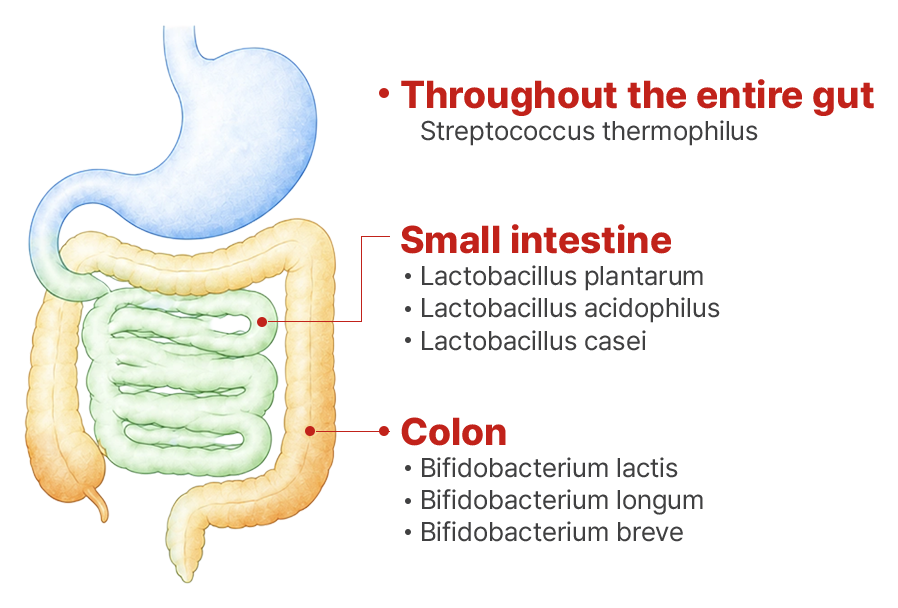
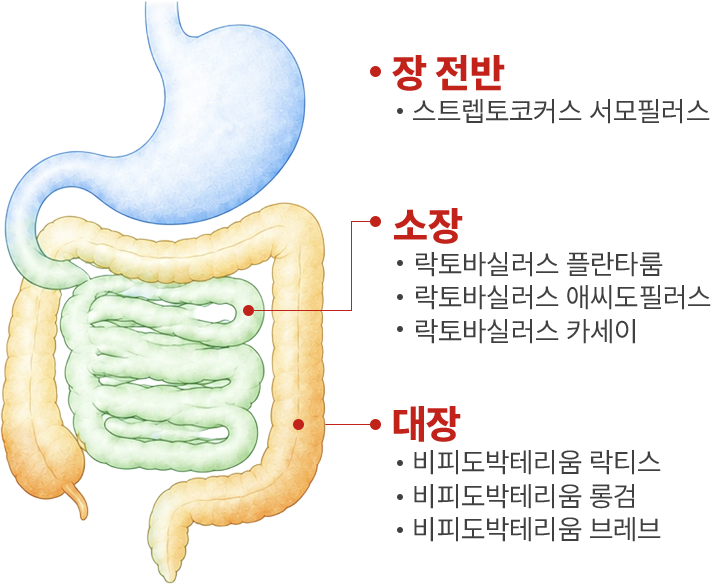
WENZ-1553
KO | WP Site

Update alfa ZETA PROBIOTICS localization, font scope, navigation, and production assets.

15 files involved.

Changed region(s): [[0.0, 0.0, 1.0, 1.0]]

diff --git a/plugins/enzacta_graphics/content/kr/ko/short_codes/ko_alfa_zeta_probiotics/assets/css/style.css b/plugins/enzacta_graphics/content/kr/ko/short_codes/ko_alfa_zeta_probiotics/assets/css/style.css
@@ -22,8 +22,11 @@
 	--pretendard: "pretendard", sans-serif;
 }
 
-#product-page,
-#product-page * {
+#product-page {
+	font-family: var(--pretendard);
+}
+
+#product-page :is(div, p, span, a, h1, h2, h3, h4, li, td) {
 	font-family: var(--pretendard) !important;
 }
 
@@ -150,42 +153,6 @@ body {
 .hero__nav .hero__nav-btn {
 	margin-right: 0 !important;
 	margin-left: 0 !important;
-}
-
-.hero__nav-btn.hero__nav-btn--buy {
-	display: inline-flex;
-	align-items: center;
-	justify-content: center;
-	min-width: 140px;
-	padding: 14px 34px;
-	border: 0;
-	border-radius: 999px;
-	background-color: #cc6666;
-	box-shadow: 0 8px 16px rgba(0, 0, 0, 0.24);
-	color: #ffffff;
-	font-family: var(--pretendard);
-	font-size: 14px;
-	font-weight: 700;
-	line-height: 1;
-	text-align: center;
-	text-decoration: none;
-	text-shadow: none;
-	white-space: nowrap;
-	box-sizing: border-box;
-}
-
-.hero__nav-btn.hero__nav-btn--buy:hover {
-	color: var(--text-gray);
-	text-decoration: none;
-	text-shadow: none;
-}
-
-.hero__nav-btn.hero__nav-btn--buy:focus-visible {
-	color: #ffffff;
-	text-decoration: none;
-	text-shadow: none;
-	outline: 2px solid var(--white);
-	outline-offset: 3px;
 }
 
 .hero__nav-btn--desktop {
@@ -709,7 +676,7 @@ span.icons__title-emphasis {
 .health .health__digestive-composition {
 	display: block;
 	width: 100%;
-	max-width: 520px;
+	max-width: 400px;
 	height: auto;
 	margin: 0 auto;
 	object-fit: contain;
@@ -2436,9 +2403,6 @@ iframe.video__container--iframe {
 	}
 	.hero__nav-btn {
 		text-shadow: 0px 0px 6px var(--white);
-	}
-	.hero__nav .hero__nav-btn--buy {
-		display: inline-flex;
 	}
 	.hero__category {
 		margin-bottom: 10px !important;

diff --git a/plugins/enzacta_graphics/content/kr/en/short_codes/ko_alfa_zeta_probiotics/assets/css/style.css b/plugins/enzacta_graphics/content/kr/en/short_codes/ko_alfa_zeta_probiotics/assets/css/style.css
@@ -22,8 +22,11 @@
 	--pretendard: "pretendard", sans-serif;
 }
 
-#product-page,
-#product-page * {
+#product-page {
+	font-family: var(--pretendard);
+}
+
+#product-page :is(div, p, span, a, h1, h2, h3, h4, li, td) {
 	font-family: var(--pretendard) !important;
 }
 
@@ -150,42 +153,6 @@ body {
 .hero__nav .hero__nav-btn {
 	margin-right: 0 !important;
 	margin-left: 0 !important;
-}
-
-.hero__nav-btn.hero__nav-btn--buy {
-	display: inline-flex;
-	align-items: center;
-	justify-content: center;
-	min-width: 140px;
-	padding: 14px 34px;
-	border: 0;
-	border-radius: 999px;
-	background-color: #cc6666;
-	box-shadow: 0 8px 16px rgba(0, 0, 0, 0.24);
-	color: #ffffff;
-	font-family: var(--pretendard);
-	font-size: 14px;
-	font-weight: 700;
-	line-height: 1;
-	text-align: center;
-	text-decoration: none;
-	text-shadow: none;
-	white-space: nowrap;
-	box-sizing: border-box;
-}
-
-.hero__nav-btn.hero__nav-btn--buy:hover {
-	color: var(--text-gray);
-	text-decoration: none;
-	text-shadow: none;
-}
-
-.hero__nav-btn.hero__nav-btn--buy:focus-visible {
-	color: #ffffff;
-	text-decoration: none;
-	text-shadow: none;
-	outline: 2px solid var(--white);
-	outline-offset: 3px;
 }
 
 .hero__nav-btn--desktop {
@@ -2436,9 +2403,6 @@ iframe.video__container--iframe {
 	}
 	.hero__nav-btn {
 		text-shadow: 0px 0px 6px var(--white);
-	}
-	.hero__nav .hero__nav-btn--buy {
-		display: inline-flex;
 	}
 	.hero__category {
 		margin-bottom: 10px !important;

diff --git a/plugins/enzacta_graphics/content/kr/ko/short_codes/ko_alfa_zeta_probiotics/index.php b/plugins/enzacta_graphics/content/kr/ko/short_codes/ko_alfa_zeta_probiotics/index.php
@@ -22,7 +22,7 @@
 
 ?>
 
-<body id="product-page">
+<div id="product-page" class="zeta-probiotics">
 
 	<!-- ========== HERO ========== -->
 
@@ -52,7 +52,6 @@
 					<div class="hero__nav">
 						<p class="hero__nav-btn hero__nav-btn--desktop hero__nav-btn--info">TESTIMONIES ></p>
 						<p class="hero__nav-btn hero__nav-btn--desktop hero__nav-btn--faq">FAQ ></p>
-						<a class="hero__nav-btn hero__nav-btn--desktop hero__nav-btn--buy" href="">BUY NOW</a>
 					</div>
 					<div class="hero__text">
 						<p class="hero__category">활력</p>
@@ -65,10 +64,10 @@
 						</p>
 						<div class="flexme">
 							<div class="hero__cta hero__cta--description">
-								DESCRIPTION
+								상세정보
 							</div>
 							<div class="hero__cta hero__cta--facts">
-								SUPPLEMENT FACTS
+								영양·기능정보
 							</div>
 						</div>
 					</div>
@@ -154,7 +153,7 @@
 			<div class="info__cards--box">
 				<div class="info__card--red">
 					<h3 class="info__card--title">
-						<span class="info__card--number">7</span>
+						<span class="info__card--number">7종</span>
 						<span class="info__card--label">프로바이오틱스</span>
 					</h3>
 					<div class="info--separator"></div>
@@ -166,7 +165,7 @@
 
 				<div class="info__card--green">
 					<h3 class="info__card--title">
-						<span class="info__card--number">5</span>
+						<span class="info__card--number">5종</span>
 						<span class="info__card--label">프리바이오틱스</span>
 					</h3>
 					<div class="info--separator"></div>
@@ -176,7 +175,7 @@
 				</div>
 				<div class="info__card--orange">
 					<h3 class="info__card--title">
-						<span class="info__card--number">1</span>
+						<span class="info__card--number">1종</span>
 						<span class="info__card--label">포스트바이오틱스</span>
 					</h3>
 					<div class="info--separator"></div>
@@ -422,28 +421,28 @@
 						<div class="instructions__separator"></div>
 						<div class="instructions__footer--icons">
 							<div class="instructions__footer--icon">
-								<img class="instructions__footer--icon-img" src="<?= plugins_url('assets/img/health/health_no_silicon_dioxide_badge.png', __FILE__) ?>" alt="이산화규소 무첨가">
+								<img class="instructions__footer--icon-img" src="<?= plugins_url('assets/img/health/health_no_silicon_dioxide_badge_v2.jpg', __FILE__) ?>" alt="이산화규소 무첨가">
 								<p class="instructions__footer--icon-text">
 									<span class="instructions__footer--icon-prefix">무첨가</span>
 									<span class="instructions__footer--icon-label">이산화규소</span>
 								</p>
 							</div>
 							<div class="instructions__footer--icon">
-								<img class="instructions__footer--icon-img" src="<?= plugins_url('assets/img/health/health_no_magnesium_stearate_badge.png', __FILE__) ?>" alt="스테아린산 마그네슘 무첨가">
+								<img class="instructions__footer--icon-img" src="<?= plugins_url('assets/img/health/health_no_magnesium_stearate_badge_v2.jpg', __FILE__) ?>" alt="스테아린산 마그네슘 무첨가">
 								<p class="instructions__footer--icon-text">
 									<span class="instructions__footer--icon-prefix">무첨가</span>
 									<span class="instructions__footer--icon-label">스테아린산 마그네슘</span>
 								</p>
 							</div>
 							<div class="instructions__footer--icon">
-								<img class="instructions__footer--icon-img" src="<?= plugins_url('assets/img/health/health_no_synthetic_preservatives_badge.png', __FILE__) ?>" alt="합성보존료 무첨가">
+								<img class="instructions__footer--icon-img" src="<?= plugins_url('assets/img/health/health_no_synthetic_preservatives_badge_v2.jpg', __FILE__) ?>" alt="합성보존료 무첨가">
 								<p class="instructions__footer--icon-text">
 									<span class="instructions__footer--icon-prefix">무첨가</span>
 									<span class="instructions__footer--icon-label">합성보존료</span>
 								</p>
 							</div>
 							<div class="instructions__footer--icon">
-								<img class="instructions__footer--icon-img" src="<?= plugins_url('assets/img/health/health_no_artificial_colors_badge.png', __FILE__) ?>" alt="합성착색료 무첨가">
+								<img class="instructions__footer--icon-img" src="<?= plugins_url('assets/img/health/health_no_artificial_colors_badge_v2.jpg', __FILE__) ?>" alt="합성착색료 무첨가">
 								<p class="instructions__footer--icon-text">
 									<span class="instructions__footer--icon-prefix">무첨가</span>
 									<span class="instructions__footer--icon-label">합성착색료</span>
@@ -628,7 +627,7 @@
 	<div class="facts js-section--facts" style="background: url(<?= plugins_url('assets/img/facts/facts_bg.jpg', __FILE__) ?>)">
 		<div class="facts__wrapper">
 			<div class="facts__card">
-				<img class="facts__img" alt="제품 정보 | 알파 제타 프로바이오틱스" src="<?= plugins_url('assets/img/facts/facts_zeta_probiotics.png', __FILE__) ?>">
+				<img class="facts__img" alt="제품 정보 | 알파 제타 프로바이오틱스" src="<?= plugins_url('assets/img/facts/facts_zeta_probiotics_ko.png', __FILE__) ?>">
 			</div>
 			<!-- <div class="facts__card">
 				<img class="facts__img" alt="Product Information | NUTRA Lite" src="<?= IMAGE_SERVER_BASE_PATH ?>/sites/4/2026/05/LITE_Nutritional_EN_2605.png">
@@ -639,14 +638,14 @@
 	<!-- ========== FOOTER PRODUCT ========== -->
 
 	<div class="product-footer">
-		<img class="product-footer__img" alt="알파 제타 프로바이오틱스" src="<?= plugins_url('assets/img/footer/footer_zeta_probiotics_composition.png', __FILE__) ?>">
+		<img class="product-footer__img" alt="알파 제타 프로바이오틱스" src="<?= plugins_url('assets/img/footer/footer_zeta_probiotics_composition_ko.png', __FILE__) ?>">
 		<p class="product-footer__text">내용량 : 150g (5g x 30 포)</p>
 		<div class="product-footer__disclaimer">
 			<p class="product-footer__disclaimer-text">*본 제품은 질병의 진단이나 치료 또는 예방을 목적으로 하지 않습니다.</p>
 		</div>
 	</div>
 
-</body>
+</div>
 
 
 <?php

diff --git a/plugins/enzacta_graphics/content/kr/en/short_codes/ko_alfa_zeta_probiotics/index.php b/plugins/enzacta_graphics/content/kr/en/short_codes/ko_alfa_zeta_probiotics/index.php
@@ -22,7 +22,7 @@
 
 ?>
 
-<body id="product-page">
+<div id="product-page" class="zeta-probiotics">
 
 	<!-- ========== HERO ========== -->
 
@@ -52,7 +52,6 @@
 					<div class="hero__nav">
 						<p class="hero__nav-btn hero__nav-btn--desktop hero__nav-btn--info">TESTIMONIES ></p>
 						<p class="hero__nav-btn hero__nav-btn--desktop hero__nav-btn--faq">FAQ ></p>
-						<a class="hero__nav-btn hero__nav-btn--desktop hero__nav-btn--buy" href="">BUY NOW</a>
 					</div>
 					<div class="hero__text">
 						<p class="hero__category">VITALITY</p>
@@ -432,28 +431,28 @@
 						<div class="instructions__separator"></div>
 						<div class="instructions__footer--icons">
 							<div class="instructions__footer--icon">
-								<img class="instructions__footer--icon-img" src="<?= plugins_url('assets/img/health/health_no_silicon_dioxide_badge.png', __FILE__) ?>" alt="No added silicon dioxide">
+								<img class="instructions__footer--icon-img" src="<?= plugins_url('assets/img/health/health_no_silicon_dioxide_badge_v2.jpg', __FILE__) ?>" alt="No added silicon dioxide">
 								<p class="instructions__footer--icon-text">
 									<span class="instructions__footer--icon-prefix">NO ADDED</span>
 									<span class="instructions__footer--icon-label">Silicon Dioxide</span>
 								</p>
 							</div>
 							<div class="instructions__footer--icon">
-								<img class="instructions__footer--icon-img" src="<?= plugins_url('assets/img/health/health_no_magnesium_stearate_badge.png', __FILE__) ?>" alt="No added magnesium stearate">
+								<img class="instructions__footer--icon-img" src="<?= plugins_url('assets/img/health/health_no_magnesium_stearate_badge_v2.jpg', __FILE__) ?>" alt="No added magnesium stearate">
 								<p class="instructions__footer--icon-text">
 									<span class="instructions__footer--icon-prefix">NO ADDED</span>
 									<span class="instructions__footer--icon-label">Magnesium Stearate</span>
 								</p>
 							</div>
 							<div class="instructions__footer--icon">
-								<img class="instructions__footer--icon-img" src="<?= plugins_url('assets/img/health/health_no_synthetic_preservatives_badge.png', __FILE__) ?>" alt="No added synthetic preservatives">
+								<img class="instructions__footer--icon-img" src="<?= plugins_url('assets/img/health/health_no_synthetic_preservatives_badge_v2.jpg', __FILE__) ?>" alt="No added synthetic preservatives">
 								<p class="instructions__footer--icon-text">
 									<span class="instructions__footer--icon-prefix">NO ADDED</span>
 									<span class="instructions__footer--icon-label">Synthetic Preservatives</span>
 								</p>
 							</div>
 							<div class="instructions__footer--icon">
-								<img class="instructions__footer--icon-img" src="<?= plugins_url('assets/img/health/health_no_artificial_colors_badge.png', __FILE__) ?>" alt="No added artificial colors">
+								<img class="instructions__footer--icon-img" src="<?= plugins_url('assets/img/health/health_no_artificial_colors_badge_v2.jpg', __FILE__) ?>" alt="No added artificial colors">
 								<p class="instructions__footer--icon-text">
 									<span class="instructions__footer--icon-prefix">NO ADDED</span>
 									<span class="instructions__footer--icon-label">Artificial Colors</span>
@@ -657,7 +656,7 @@
 		</div>
 	</div>
 
-</body>
+</div>
 
 
 <?php
